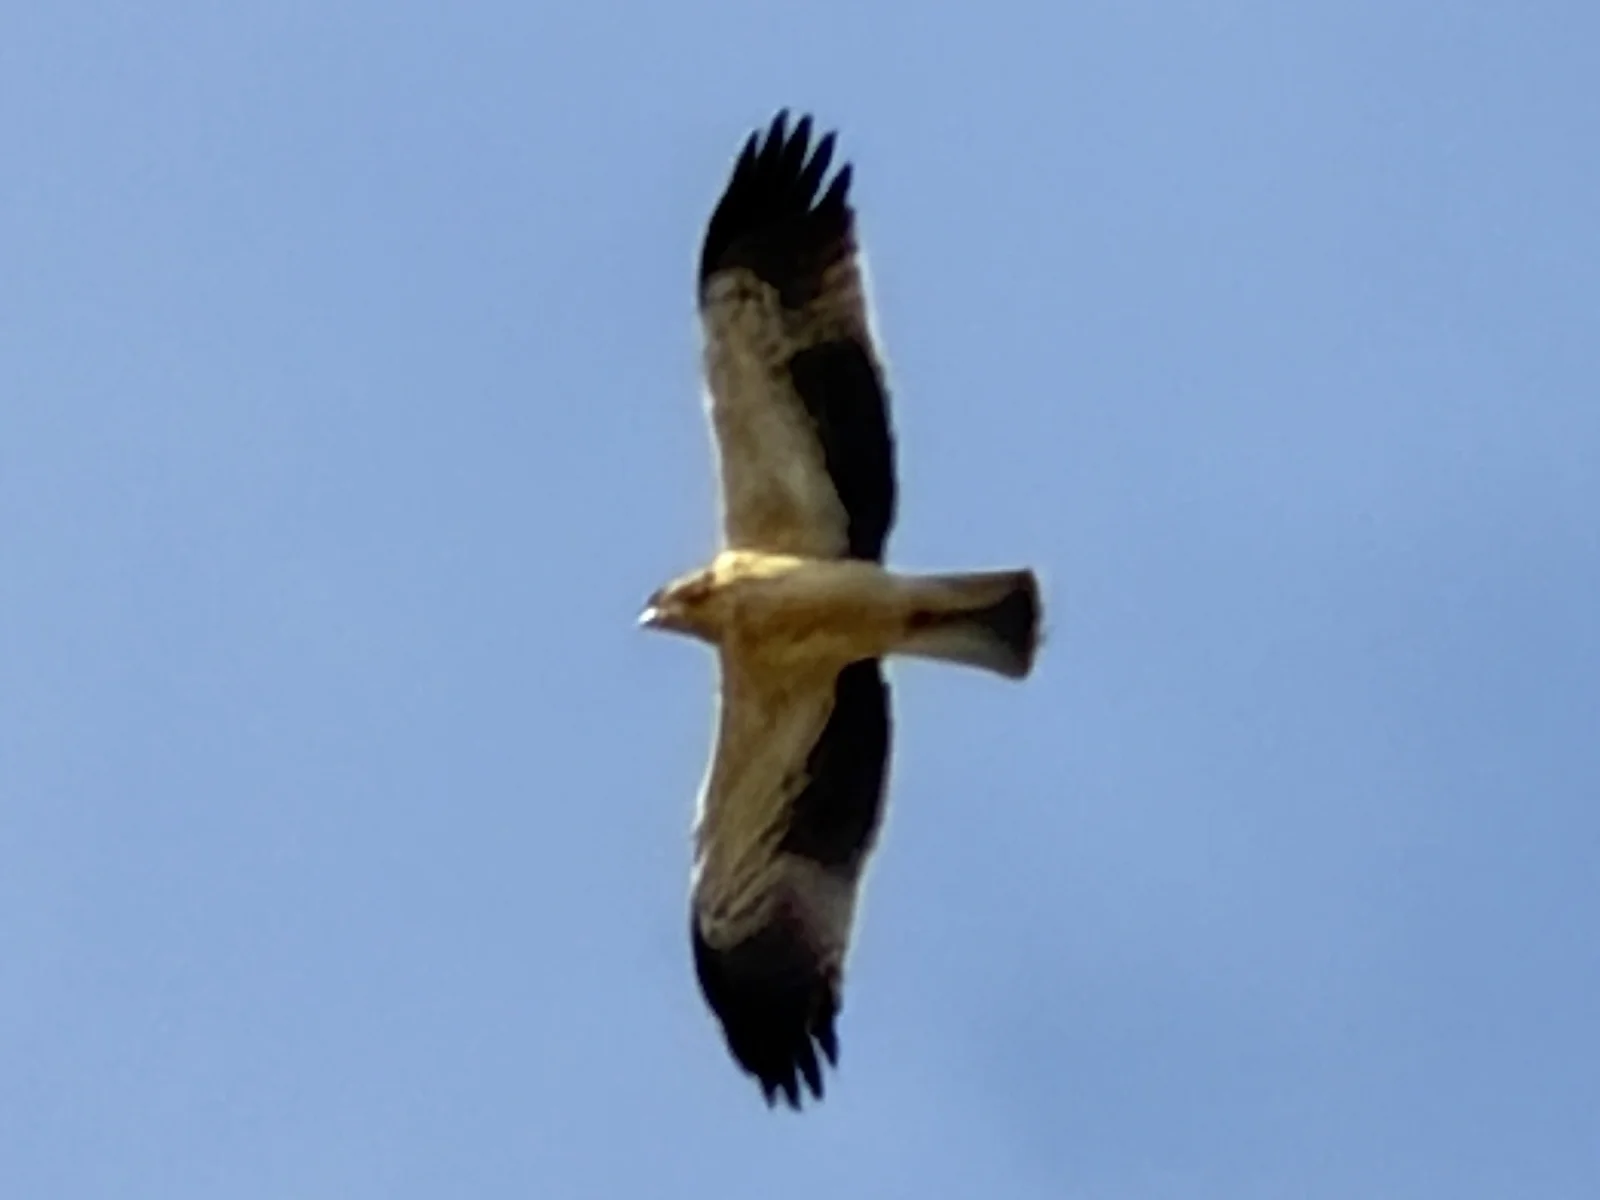
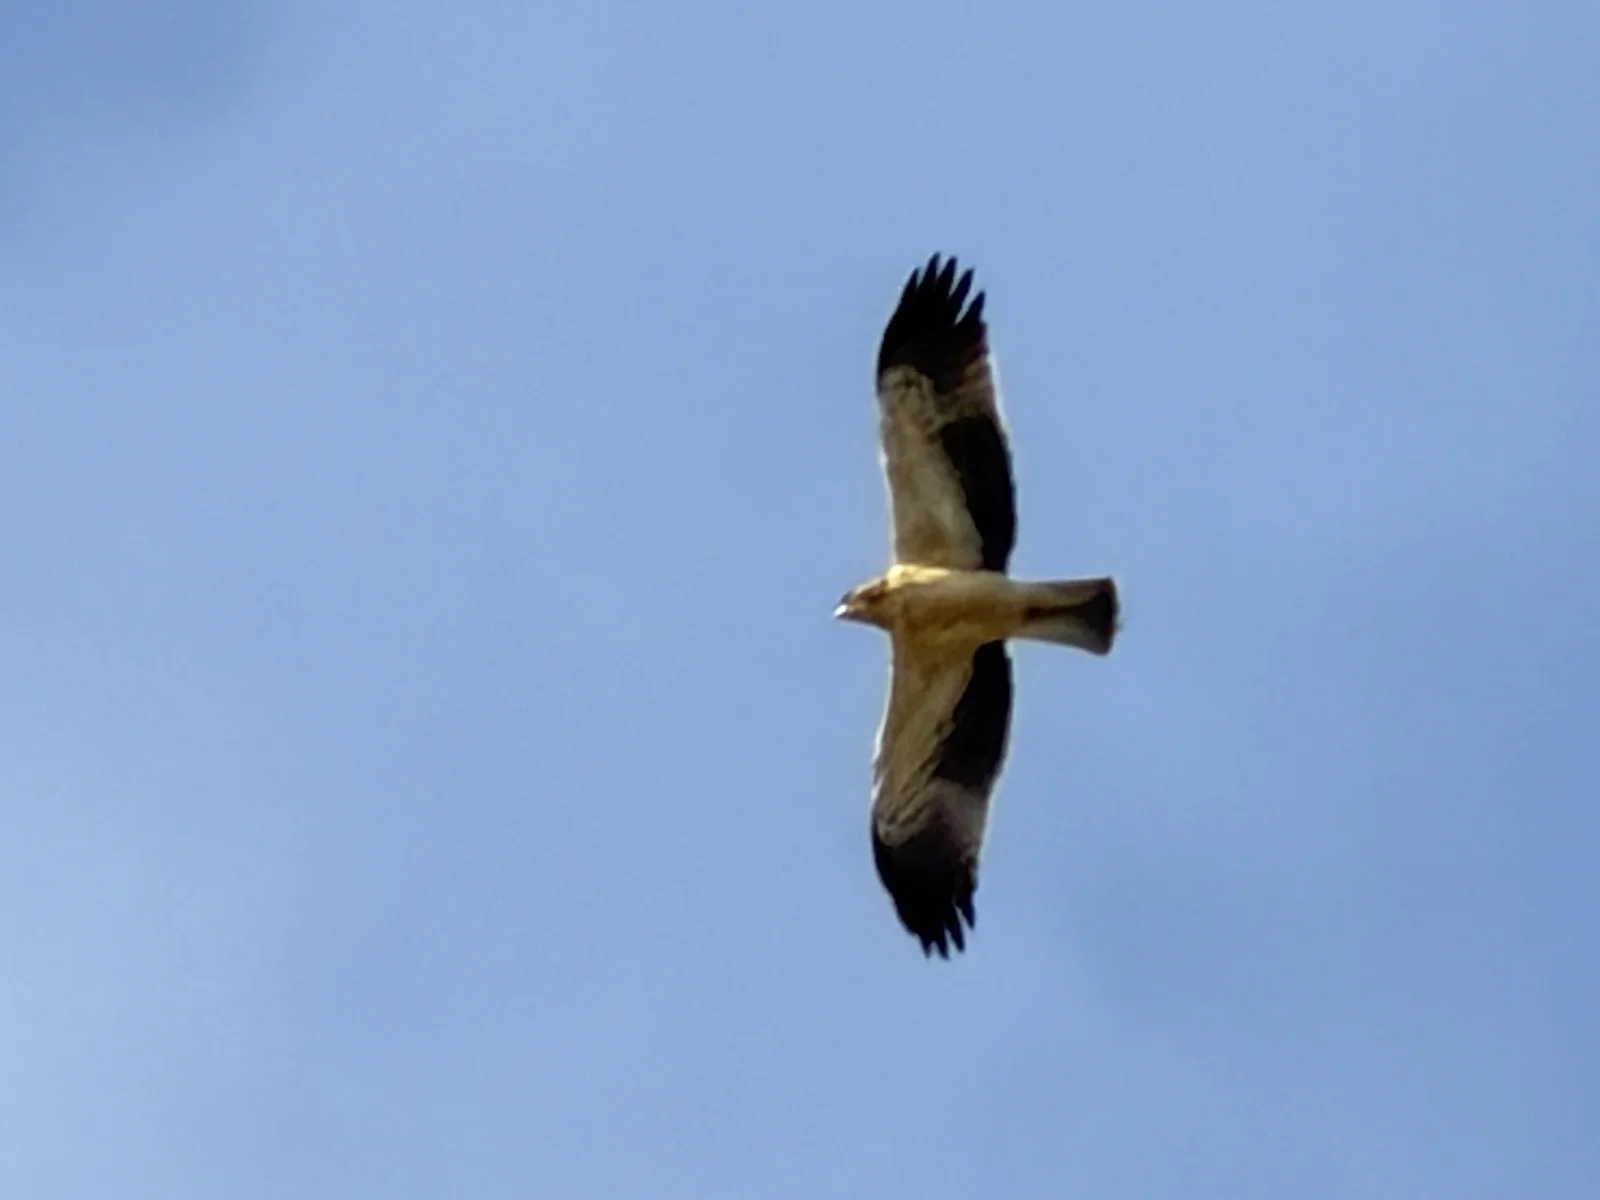
fix(work): World of Raptors - kadry wlasnych zdjec i plakietka held na telefonie
Zdjecie z dachu przyciete poziomo wokol sokolow, zeby para z pojdzka sie
nie rozjezdzala. Orzelek wlochaty w szerszym kadrze i w kolumnie - ma byc
sylwetka daleko na niebie, a nie rozmazane zblizenie. Krotszy tekst until,
bo plakietka held wystawala o 23 px poza ekran 390 px.

Changed region(s): [[0.375, 0.0925, 0.7188, 0.925], [0.0, 0.0, 0.0625, 0.0617]]

diff --git a/site/src/content/raptors.ts b/site/src/content/raptors.ts
@@ -19,7 +19,7 @@ export const raptors: CaseStudy = {
     "A private online course on diurnal raptors and owls, focused on Poland, southern Spain and the Strait of Gibraltar: twelve modules, sixty lessons, a 42-species atlas and an observation checklist. I built it to put what I already know in order and to learn to tell these birds apart in the field — and it turned into the first real test of my own design system, Big Hat, by a project it was not designed around.",
   status: {
     state: "held",
-    until: "once World of Raptors runs on Big Hat v2",
+    until: "with Big Hat v2",
     why: "The course, the atlas and the v1 build are finished and live. The chapter this wall is actually about — what v2 changed on the same screens — is still being built in the design system repo.",
   },
   group: "practice",
@@ -172,7 +172,7 @@ export const raptors: CaseStudy = {
         },
         {
           kind: "shot",
-          width: "wall",
+          width: "column",
           src: "/work/world-of-raptors/field/booted-eagle.webp",
           caption:
             "Mine, on a phone, September 2026. What the course lets me say now: most likely a pale-morph booted eagle — dark flight feathers against pale underwing coverts, a long straight-cut tail, six clear “fingers”. And it taught me to keep the “most likely”.",
